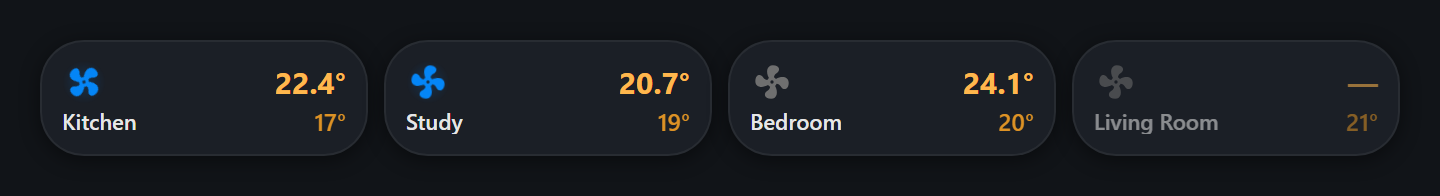
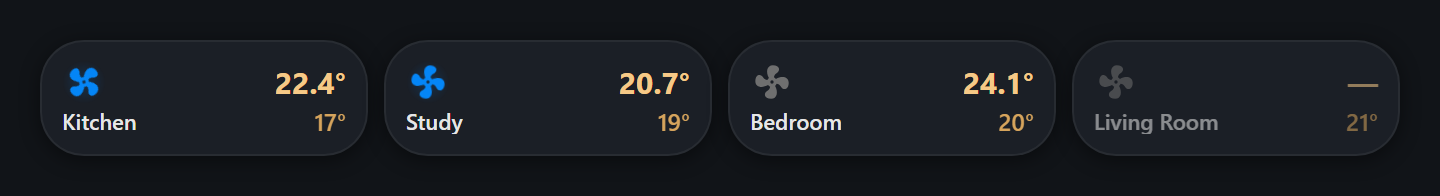
Make compact temperatures readable on light themes; release 2026.8.14
The compact tile's amber temperatures sat at roughly 1.7:1 against a white
card, which is close to unreadable. Both colours now blend toward the theme's
own --primary-text-color, lifting them to about 3.6:1 on a light card while
the dark card stays at 10.7:1 and looks as it did before.

The blend follows the theme rather than the operating system: a dark Home
Assistant theme on a light desktop is perfectly normal, so prefers-color-scheme
would darken the text on exactly the cards that least need it. Setting
--acc-compact-current or --acc-compact-target still overrides it outright.

Also switches to date-based versions (YYYY.M.D, with a trailing counter for a
second release on the same day) and widens the version-format test to match,
adds a light-theme option to the compact screenshot fixture, and regenerates
every screenshot from this build.

diff --git a/ac-control-card.js b/ac-control-card.js
@@ -28,7 +28,7 @@
  */
 
 const CARD_TYPE = "ac-control-card";
-const CARD_VERSION = "2.1.1";
+const CARD_VERSION = "2026.8.14";
 
 /* ------------------------------------------------------------------ config */
 
@@ -1364,6 +1364,11 @@ class AcControlCard extends HTMLElement {
       .ctile .modeicon ha-icon { --mdc-icon-size: 24px; width: 24px; height: 24px; }
       .ctile .modeicon.running::after { inset: -5px; border-radius: 50%; }
 
+      /* Amber reads well on a dark card but washes out to roughly 1.7:1 on a
+         white one. Blending it toward the theme's own text colour tracks the
+         theme instead of the OS, since a dark Home Assistant theme is perfectly
+         normal on a light desktop -- prefers-color-scheme would get that wrong.
+         Setting either variable still wins outright. */
       .ccur {
         grid-area: cur;
         justify-self: end;
@@ -1371,7 +1376,10 @@ class AcControlCard extends HTMLElement {
         font-weight: 700;
         line-height: 1.15;
         white-space: nowrap;
-        color: var(--acc-compact-current, #ffb74d);
+        color: var(
+          --acc-compact-current,
+          color-mix(in srgb, #ffb74d 62%, var(--primary-text-color, #e1e1e1))
+        );
       }
       .ctarget {
         grid-area: target;
@@ -1380,7 +1388,10 @@ class AcControlCard extends HTMLElement {
         font-weight: 600;
         line-height: 1.15;
         white-space: nowrap;
-        color: var(--acc-compact-target, #ffa726);
+        color: var(
+          --acc-compact-target,
+          color-mix(in srgb, #ffa726 66%, var(--primary-text-color, #e1e1e1))
+        );
         opacity: 0.85;
       }
       .cname {

diff --git a/tests/shot-compact.html b/tests/shot-compact.html
@@ -37,6 +37,17 @@
   }
   /* Stands in for a Home Assistant sections grid: 12 columns, 8px gaps. */
   .grid { display: grid; grid-template-columns: repeat(12, 1fr); gap: 8px; }
+
+  /* ?theme=light renders against a light Home Assistant theme. */
+  body.light {
+    color-scheme: light;
+    background: #f2f4f7;
+    --divider-color: rgba(0,0,0,.10);
+    --primary-text-color: #212121;
+    --secondary-text-color: #6b7280;
+    --disabled-text-color: #9aa0a6;
+    --card-background-color: #ffffff;
+  }
 </style>
 </head>
 <body>
@@ -57,6 +68,7 @@
   ];
 
   const params = new URLSearchParams(location.search);
+  if (params.get("theme") === "light") document.body.classList.add("light");
   const cols = Number(params.get("cols")) || 3;
   const w = Number(params.get("w"));
   if (Number.isFinite(w) && w > 0) document.body.style.width = `${w}px`;

diff --git a/tests/card.test.js b/tests/card.test.js
@@ -159,7 +159,9 @@ describe("registration", () => {
   });
 
   it("exports a version string", () => {
-    assert.match(CARD_VERSION, /^\d+\.\d+\.\d+$/);
+    // Date-based: YYYY.M.D, with a trailing counter for a second release the
+    // same day (YYYY.M.D.1). Older semver releases match the same shape.
+    assert.match(CARD_VERSION, /^\d+\.\d+\.\d+(\.\d+)?$/);
   });
 });
 

diff --git a/README.md b/README.md
@@ -26,6 +26,10 @@ On a phone, two per row:
 
 ![Compact layout on a phone](docs/compact-mobile.png)
 
+The same tiles on a light theme:
+
+![Compact layout on a light theme](docs/compact-light.png)
+
 ## Features
 
 - **One card, many rooms.** Rooms are separated by a thin divider; the card height
@@ -218,8 +222,8 @@ Colours come from your theme where possible, and can be overridden per-card with
 | `--acc-target-cool` | `#23aa08` | Target temperature in the cooling season |
 | `--acc-target-heat` | `#fc0000` | Target temperature in the heating season |
 | `--ac-control-card-gap` | `0` | Margin below the card, for containers that add no spacing of their own, such as `vertical-stack` |
-| `--acc-compact-current` | `#ffb74d` | Room temperature on the compact tile |
-| `--acc-compact-target` | `#ffa726` | Target temperature on the compact tile |
+| `--acc-compact-current` | amber | Room temperature on the compact tile. The default blends toward the theme's text colour so it stays readable on light themes as well as dark; set it to pin one colour. |
+| `--acc-compact-target` | amber | Target temperature on the compact tile, same blending |
 | `--acc-compact-radius` | `22px` | Corner radius of the compact tile |
 
 ## Troubleshooting

diff --git a/CHANGELOG.md b/CHANGELOG.md
@@ -1,5 +1,26 @@
 # Changelog
 
+Releases from 2026.8.14 onwards are dated — `YYYY.M.D`, with a trailing counter
+(`YYYY.M.D.1`) when there is more than one release on the same day. Earlier
+releases used semantic versions.
+
+## 2026.8.14
+
+### Fixed
+
+- **The compact tile's temperatures were close to unreadable on a light theme.**
+  The amber sat at roughly 1.7:1 against a white card. Both colours are now blended
+  toward the theme's own text colour, which lifts them to about 3.6:1 on a light
+  card while leaving the dark card at 10.7:1 and looking as it did before. The blend
+  follows the *theme* rather than the operating system, since a dark Home Assistant
+  theme on a light desktop is perfectly normal — `prefers-color-scheme` would get
+  that case wrong. Setting `--acc-compact-current` or `--acc-compact-target` still
+  overrides it outright.
+
+### Changed
+
+- Version scheme is now date-based; `CARD_VERSION` reports `2026.8.14`.
+
 ## 2.1.1
 
 Documentation and packaging only — the card behaves exactly as it did in 2.1.0.
